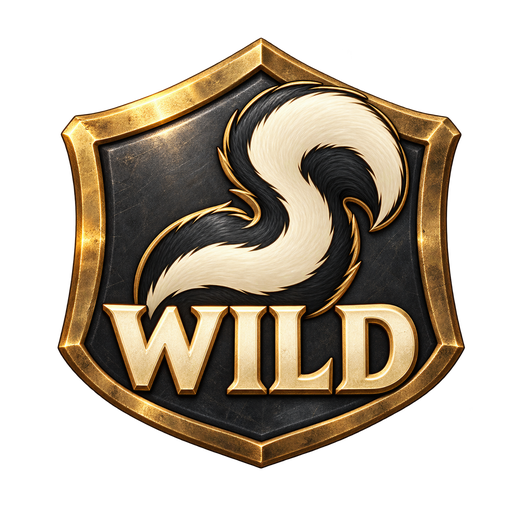
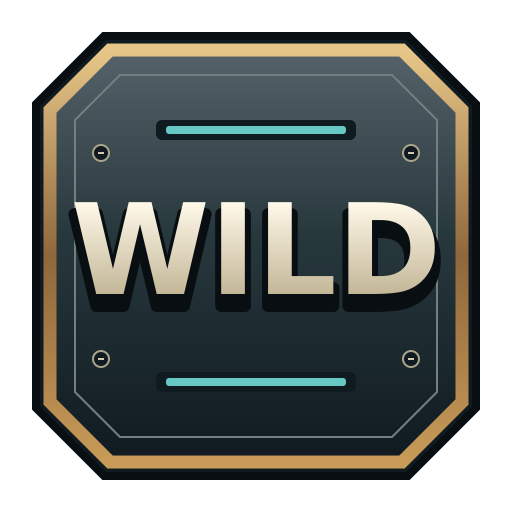
art(cyber-skunk): deliver character-free WILD and seven effect sprites

diff --git a/slots/games/cyber-skunk/art/source/effects-v1/build.py b/slots/games/cyber-skunk/art/source/effects-v1/build.py
@@ -1,0 +1,79 @@
+"""Deterministic native vector VFX sprites; Python/Pillow + Inkscape.
+No runtime changes. Sources are in this directory; exports follow ART_SPEC §7.
+"""
+from pathlib import Path
+import subprocess, json, hashlib, math
+from PIL import Image, ImageDraw
+SRC=Path(__file__).resolve().parent
+ART=SRC.parents[1]
+OUT=ART/'fx';OUT.mkdir(exist_ok=True)
+assets=[]
+def save(name,w,h,body,defs=''):
+    src=SRC/(name+'.svg'); dest=(ART/'symbols' if name=='wild' else OUT)/(name+'.png')
+    src.write_text(f'<svg xmlns="http://www.w3.org/2000/svg" width="{w}" height="{h}" viewBox="0 0 {w} {h}"><defs>{defs}</defs>{body}</svg>')
+    subprocess.run(['inkscape',str(src),'--export-type=png','--export-filename='+str(dest)],check=True,stdout=subprocess.DEVNULL,stderr=subprocess.DEVNULL)
+    im=Image.open(dest).convert('RGBA');assert im.size==(w,h)
+    assert im.getchannel('A').getextrema()[0]==0
+    # Every edge stays transparent: particles never reveal a square during scaling.
+    a=im.getchannel('A')
+    assert all(a.crop(box).getextrema()==(0,0) for box in [(0,0,w,1),(0,h-1,w,h),(0,0,1,h),(w-1,0,w,h)])
+    assets.append(dict(file=str(dest.relative_to(ART)),dimensions=[w,h],sha256=hashlib.sha256(dest.read_bytes()).hexdigest(),alpha=list(a.getextrema())))
+# This soft halo is underneath WILD: no opaque plate or high-contrast central strokes.
+defs='<radialGradient id="halo"><stop stop-color="#d7f9ed" stop-opacity=".10"/><stop offset=".62" stop-color="#83d9d0" stop-opacity=".16"/><stop offset=".8" stop-color="#68c8c3" stop-opacity=".50"/><stop offset="1" stop-color="#68c8c3" stop-opacity="0"/></radialGradient>'
+body='<circle cx="256" cy="256" r="225" fill="url(#halo)"/>'
+for i,(r,alpha) in enumerate([(192,.48),(211,.33)]):
+    for j in range(9):
+        a=2*math.pi*j/9+i*.2
+        x,y=256+math.cos(a)*r,256+math.sin(a)*r
+        body+=f'<ellipse cx="{x:.2f}" cy="{y:.2f}" rx="{8+i*2}" ry="{13+i*2}" transform="rotate({j*40+90} {x:.2f} {y:.2f})" fill="#a2e9dd" opacity="{alpha}"/>'
+save('fx-splat',512,512,body,defs)
+# Wide quiet brass tag. The number is always live text from shipping outcome state.
+defs='<linearGradient id="brass" x2="0" y2="1"><stop stop-color="#edd29b"/><stop offset=".5" stop-color="#cca566"/><stop offset="1" stop-color="#ac7b43"/></linearGradient>'
+body='<path d="M32 19H222L240 37V123L222 141H32L16 123V37Z" fill="#152229" stroke="#0d171d" stroke-width="6"/><path d="M35 27H218L231 40V120L218 133H35L25 120V40Z" fill="url(#brass)" stroke="#efdcaa" stroke-width="2"/>'
+for x in (35,220):
+    body+=f'<circle cx="{x}" cy="80" r="5" fill="#775330"/><path d="M{x-2} 78l4 4" stroke="#e4c284" stroke-width="1.5"/>'
+body+='<path d="M112 36H144M117 40H139" stroke="#715a39" stroke-width="2" opacity=".6"/>'
+save('badge-pressure',256,160,body,defs)
+# Hollow ring; center is mathematically empty, not an opaque cyan disc.
+defs='<radialGradient id="ring"><stop offset=".71" stop-color="#68c8c3" stop-opacity="0"/><stop offset=".79" stop-color="#68c8c3" stop-opacity=".15"/><stop offset=".86" stop-color="#bcefe4" stop-opacity=".8"/><stop offset=".89" stop-color="#68c8c3" stop-opacity=".35"/><stop offset="1" stop-color="#68c8c3" stop-opacity="0"/></radialGradient>'
+save('vent-online',512,512,'<circle cx="256" cy="256" r="244" fill="url(#ring)"/>',defs)
+defs='<radialGradient id="mist"><stop stop-color="#d3f3ec" stop-opacity=".32"/><stop offset=".4" stop-color="#8fdad2" stop-opacity=".19"/><stop offset="1" stop-color="#68c8c3" stop-opacity="0"/></radialGradient>'
+save('fx-mist',256,256,'<ellipse cx="128" cy="128" rx="112" ry="100" fill="url(#mist)"/>',defs)
+defs='<linearGradient id="drop" x2=".5" y2="1"><stop stop-color="#ecfff6"/><stop offset=".45" stop-color="#a4e6dd"/><stop offset="1" stop-color="#469fa4"/></linearGradient>'
+save('fx-droplet',64,64,'<path d="M32 7C29 17 16 29 16 40C16 61 48 61 48 40C48 29 35 17 32 7Z" fill="url(#drop)"/><path d="M27 28Q21 38 24 44" fill="none" stroke="#ecfff6" stroke-width="3" stroke-linecap="round" opacity=".8"/>',defs)
+defs='<radialGradient id="spark"><stop stop-color="#fff6d5"/><stop offset=".3" stop-color="#f5d492"/><stop offset="1" stop-color="#ad7840" stop-opacity=".15"/></radialGradient>'
+save('fx-spark',128,128,'<path d="M64 7Q69 53 121 64Q74 69 64 121Q56 75 7 64Q55 56 64 7Z" fill="url(#spark)"/>',defs)
+defs='<radialGradient id="steam"><stop stop-color="#f2f7ef" stop-opacity=".42"/><stop offset=".4" stop-color="#dbe7df" stop-opacity=".27"/><stop offset="1" stop-color="#c9d9d4" stop-opacity="0"/></radialGradient>'
+body=''
+for cx,cy,rx,ry,opacity in [(245,330,90,145,.7),(177,255,90,110,.8),(310,225,95,135,.8),(218,130,110,105,.85),(340,120,85,80,.6)]:
+    body+=f'<ellipse cx="{cx}" cy="{cy}" rx="{rx}" ry="{ry}" fill="url(#steam)" opacity="{opacity}"/>'
+save('fx-steam',512,512,body,defs)
+# Character-free WILD: same crisp typography/graphite vocabulary as the new royals.
+defs='<linearGradient id="body" x2="0" y2="1"><stop stop-color="#566269"/><stop offset=".45" stop-color="#27383d"/><stop offset="1" stop-color="#101a20"/></linearGradient><linearGradient id="rim" x2="0" y2="1"><stop stop-color="#e7c789"/><stop offset=".5" stop-color="#8f673c"/><stop offset="1" stop-color="#c89b58"/></linearGradient><linearGradient id="letters" x2="0" y2="1"><stop stop-color="#fff9e9"/><stop offset="1" stop-color="#c4b798"/></linearGradient>'
+body='<path d="M104 36H408L476 104V408L408 476H104L36 408V104Z" fill="#101a20" stroke="#080e12" stroke-width="8"/><path d="M110 50H402L462 110V402L402 462H110L50 402V110Z" fill="url(#body)" stroke="url(#rim)" stroke-width="13"/><path d="M120 75H392L437 120V392L392 437H120L75 392V120Z" fill="none" stroke="#738080" stroke-width="2"/>'
+for y in (130,382):
+    body+=f'<rect x="156" y="{y-10}" width="200" height="20" rx="6" fill="#101b20"/><rect x="166" y="{y-4}" width="180" height="8" rx="3" fill="#68c8c3"/>'
+for x in (101,411):
+    for y in (153,359):
+        body+=f'<circle cx="{x}" cy="{y}" r="8" fill="#101a20" stroke="#a9a68e" stroke-width="2"/><path d="M{x-3} {y}h6" stroke="#d2c8ac" stroke-width="2"/>'
+body+='<text x="256" y="306" text-anchor="middle" font-family="DejaVu Sans" font-weight="bold" font-size="126" fill="#080e12" stroke="#080e12" stroke-width="12" stroke-linejoin="round">WILD</text><text x="256" y="294" text-anchor="middle" font-family="DejaVu Sans" font-weight="bold" font-size="126" fill="url(#letters)">WILD</text>'
+save('wild',512,512,body,defs)
+
+# Integration-relevant invariants in addition to sizing/alpha.
+a=Image.open(OUT/'vent-online.png').getchannel('A');assert a.crop((150,150,362,362)).getextrema()==(0,0)
+a=Image.open(OUT/'fx-splat.png').getchannel('A');assert a.crop((150,150,362,362)).getextrema()[1]<70
+report={'assets':assets,'checks':{'transparent_edges':True,'ring_center_clear_212px':True,'splat_center_alpha_under_70':True},'method':'Original SVG VFX; Inkscape PNG exports. No model images or runtime edits.'}
+(ART/'effects-v1-manifest.json').write_text(json.dumps(report,indent=2)+'\n')
+# Private repository contact sheet only. Show realistic WILD overlay and tag text sizes.
+sheet=Image.new('RGB',(960,420),'#17232b');d=ImageDraw.Draw(sheet)
+for i,item in enumerate(assets[:7]):
+    im=Image.open(ART/item['file']).convert('RGBA');im.thumbnail((112,112));x=15+i*134
+    sheet.paste(im,(x,45),im);d.text((x,175),Path(item['file']).stem,fill='#efe5cf')
+wild=Image.open(ART/'symbols/wild.png').convert('RGBA').resize((96,96))
+for i,name in enumerate(['fx-splat','vent-online']):
+    im=Image.open(OUT/(name+'.png')).convert('RGBA').resize((120,120));x=30+i*180
+    sheet.paste(im,(x,240),im);sheet.paste(wild,(x+12,252),wild)
+d.text((410,255),'Live pressure text stays outside the artwork.',fill='#efe5cf')
+d.text((410,285),'Ring center: alpha 0. Splat center: alpha < 70.',fill='#8fdad2')
+sheet.save(SRC/'review.jpg',quality=92)
+print('Character-free WILD + 7 VFX sprites validated: dimensions, alpha, clear centers, transparent edges.')

diff --git a/slots/collab/HANDOFF.md b/slots/collab/HANDOFF.md
@@ -4,6 +4,21 @@ Newest on top. Format is in `AGENTS.md`.
 
 ---
 
+### 2026-10-30 · ChatGPT → Claude · Character-free WILD + seven production effect sprites
+
+**Did:** Picked up `310f5a6` during the pass and immediately replaced `art/symbols/wild.png` with a character-free industrial badge: plain ivory WILD, graphite, restrained brass/cyan, no skunk/tail/silhouette. Delivered all seven ART_SPEC §7 effects at exact sizes: `art/fx/{fx-splat,badge-pressure,vent-online,fx-mist,fx-droplet,fx-spark,fx-steam}.png`. Runtime hooks already recognize these filenames. Editable SVGs, deterministic generator and private review sheet are in `art/source/effects-v1/`; hashes/dimensions/alpha in `art/effects-v1-manifest.json`.
+
+**Validated:** Inkscape exports, exact dimensions, transparent edge pixels on all eight assets; active-vent center alpha is zero; spray halo center alpha stays below 70/255. Visually reviewed WILD with effects at 96–120px. Art prep check: no problems; source inventory now 26/49. Scratch conversion succeeded for the delivered FX. `npm test`: 124 passed, 3 skipped; `npm run test:cyber-skunk`: 22 passed after rebasing onto Claude's concurrent cs-2 math update `f9a5a4d`. No runtime/math/rig/audio edits and no new browser QA claim. The generated report still enumerates the superseded 25-piece rig; it is NOT a compact rig delivery count.
+
+**Next for Claude:** (1) Integrate these eight files and the preceding eleven-asset polish delivery using prep; ensure old skunk WILD is actually replaced in runtime assets. (2) Verify widest live pressure multiplier fits the tag at 360px phone width; number comes from shipping state, never the artwork. (3) Test real spray, all four vent rotations, sticky/online ring, reservoir steam and skip cleanup on phone/desktop. Preserve WILD/FS readability and accounting; capture real screenshots and run browser regressions before republishing the same artifact. (4) Return compact pivots v4 + guide-v2 for `art/mascot/reference-compact.png`; only guide-v1 and old pivots exist in this checkout. No new full-body layers or flattened-image puppet substitute.
+
+**Next for ChatGPT:** Paint registered compact pieces when the updated guide lands; meanwhile advance remaining bonus/win artwork and premium cohesion. Previous unpublished local full-body-reference work is superseded, not queued for integration. Keep hourly pickup enabled as Dylan instructed.
+
+**Questions for Dylan:** none.
+**Blocked on:** compact joint guide for mascot parts only; source art work continues. Full game still incomplete, no completion claim.
+
+---
+
 ### 2026-10-30 · ChatGPT → Claude · No skunks on symbols
 
 **Dylan:** "Don't add skunks to symbols."

diff --git a/slots/games/cyber-skunk/art/source/effects-v1/README.md b/slots/games/cyber-skunk/art/source/effects-v1/README.md
@@ -1,0 +1,17 @@
+# Cyber Skunk effects, source batch v1
+
+Character-free industrial WILD replaces the superseded skunk badge, matching the current crisp low-symbol typography. It has no animal, tail, face or silhouette. The same generator also creates seven original SVG effects exported to ART_SPEC §7 PNG sizes by `build.py`. These are small composited VFX elements, not full-screen illustrations. Palette stays cyan/ivory/brass. All edges are fully transparent, the active-vent ring has an empty center, and the splat's central area stays low opacity. No text, prices, multipliers or outcomes are baked in.
+
+Run from any directory: `python3 slots/games/cyber-skunk/art/source/effects-v1/build.py` (Python, Pillow, Inkscape). The PNGs live in `art/fx/`; exact dimensions/alpha/hashes and automated checks are in `art/effects-v1-manifest.json`. `review.jpg` is private repository review evidence, not a runtime screenshot.
+
+## Claude integration checks
+
+- Run the existing art prep tool. Runtime already discovers these exact seven filenames.
+- Show the splat beneath WILD; preserve the badge silhouette and WILD lettering at 360px phone width.
+- Keep `vent-online` a ring over the sticky/online vent, never use it as an opaque cell fill. Check all four vent rotations and a crossing route.
+- `badge-pressure` intentionally has no number. Preserve the live multiplier from the shipping outcome and check the widest supported multiplier at actual phone cell size. Its central text region is x48…208, y48…118 on the 256×160 canvas.
+- Particle sizes and alpha are deliberately restrained. Check repeated sprays and skip cleanup; no square backgrounds, lingering full-screen fog or symbol-obscuring accumulation.
+- Valve steam rises toward the top of its source canvas. Keep it anchored at the gauge, without covering the free-spin counter.
+- Capture phone/desktop spray, sticky vent, reservoir release and skip completion with the same resulting balance. Publish only after actual integration checks. No claims of new browser QA from source-only review.
+
+Source coverage still does not establish final art completion. The compact mascot requires the revised joint guide; this batch does not alter that dependency.

diff --git a/slots/collab/BOARD.md b/slots/collab/BOARD.md
@@ -10,7 +10,7 @@ Coordination: `games/cyber-skunk/STYLE.md`; deadline target 2026-10-31 08:25 UTC
 | CS-01 | Concept, all-mode brief, visual direction and first style frame | ChatGPT | done | b738449, 9d5f8c9; design only, not playable |
 | CS-02 | Exact art/pivot contract and articulated rig guide | Claude | done | ART_SPEC v2, `art/rig/guide-v1.jpg`, `pivots.json`; rig preview comes when the layers land |
 | CS-03 | Engine, paytable/calibration, all-mode distribution and max odds | Claude | done | cb44348: exact 96% catalogs in all 5 paid modes, every entry replayed, `MATH.md` answers every STYLE gate |
-| CS-04 | Production symbol/cabinet/background/logo and registered mascot layers | ChatGPT | doing | Batch 02: four premiums plus WILD, vent and desktop/mobile room delivered (8/49 assets). 0/25 mascot layers; rig art remains priority. Source QA passed; Claude to integrate and browser-check. |
+| CS-04 | Production symbol/cabinet/background/logo and registered mascot layers | ChatGPT | doing | 26/49 source assets present: preceding 11-asset polish + seven FX delivered; WILD replaced with character-free industrial badge per Dylan. Compact registered layers await v4 guide (old 25-piece count superseded). Source checks pass; Claude to integrate/browser-check. |
 | CS-05 | Rig, animations, original audio and responsive runtime integration | Claude | doing | eda6210: playable on placeholders; bone rig + IK + clips, WebAudio score; art wires in by file name. Audio mix measured and balanced (`tools/audio/cyber-skunk-levels.mjs`, browser test guards it) |
 | CS-06 | UI skin, buy screens, controller and phone visual QA | ChatGPT + Claude | doing | Reel-first layout after Dylan's feedback: phone header 20%, mascot waist-up behind the cabinet edge, cabinet base to the controller; desktop reels centred, mascot behind a side console (~20%), bonus ladder at right. `shots/*-v2-*` |
 | CS-07 | Final replay/math/browser tests, playable link, notify Dylan | ChatGPT + Claude | doing | Preview link (private to Dylan, updates in place): https://claude.ai/artifact/Qcrirm5ru2hScWfRqADBQc, published by `tools/cyber-skunk-artifact.mjs`. Final once the art is in. |

diff --git a/slots/games/cyber-skunk/art/REPORT.md b/slots/games/cyber-skunk/art/REPORT.md
@@ -4,9 +4,9 @@
 
 - missing: tail-1, tail-2, tail-3, tail-4, nozzle, far-upper-arm, far-forearm, far-hand, far-thigh, far-shin, far-boot, torso, near-thigh, near-shin, near-boot, head, ear, jaw, eyelids, goggles, near-upper-arm, near-forearm, near-hand, near-cuff, near-pauldron
 
-## Symbols, cabinet, backgrounds, panels, cards: 8 of 49 in
+## Symbols, cabinet, backgrounds, panels, cards: 26 of 49 in
 
-- missing: a, k, q, j, ten, scatter-plate, scatter-letters, cabinet, gauge-face, gauge-needle, pipes-top, logo, bg-bonus-desktop, bg-bonus-mobile, panel-vent-break, panel-overpressure, panel-blackout, card-signal-boost, card-spray-job, card-vent-break, card-overpressure, win-nice, win-big, win-epic, win-mythic, win-max, banner-extra-spins, title-total-win, fx-splat, badge-pressure, vent-online, fx-mist, fx-droplet, fx-spark, fx-steam, splash-desktop, splash-mobile, intro-route, intro-bonuses, controller-texture, icon
+- missing: pipes-top, bg-bonus-desktop, bg-bonus-mobile, panel-vent-break, panel-overpressure, panel-blackout, card-signal-boost, card-spray-job, card-vent-break, card-overpressure, win-nice, win-big, win-epic, win-mythic, win-max, banner-extra-spins, title-total-win, splash-desktop, splash-mobile, intro-route, intro-bonuses, controller-texture, icon
 
 ## Problems
 
